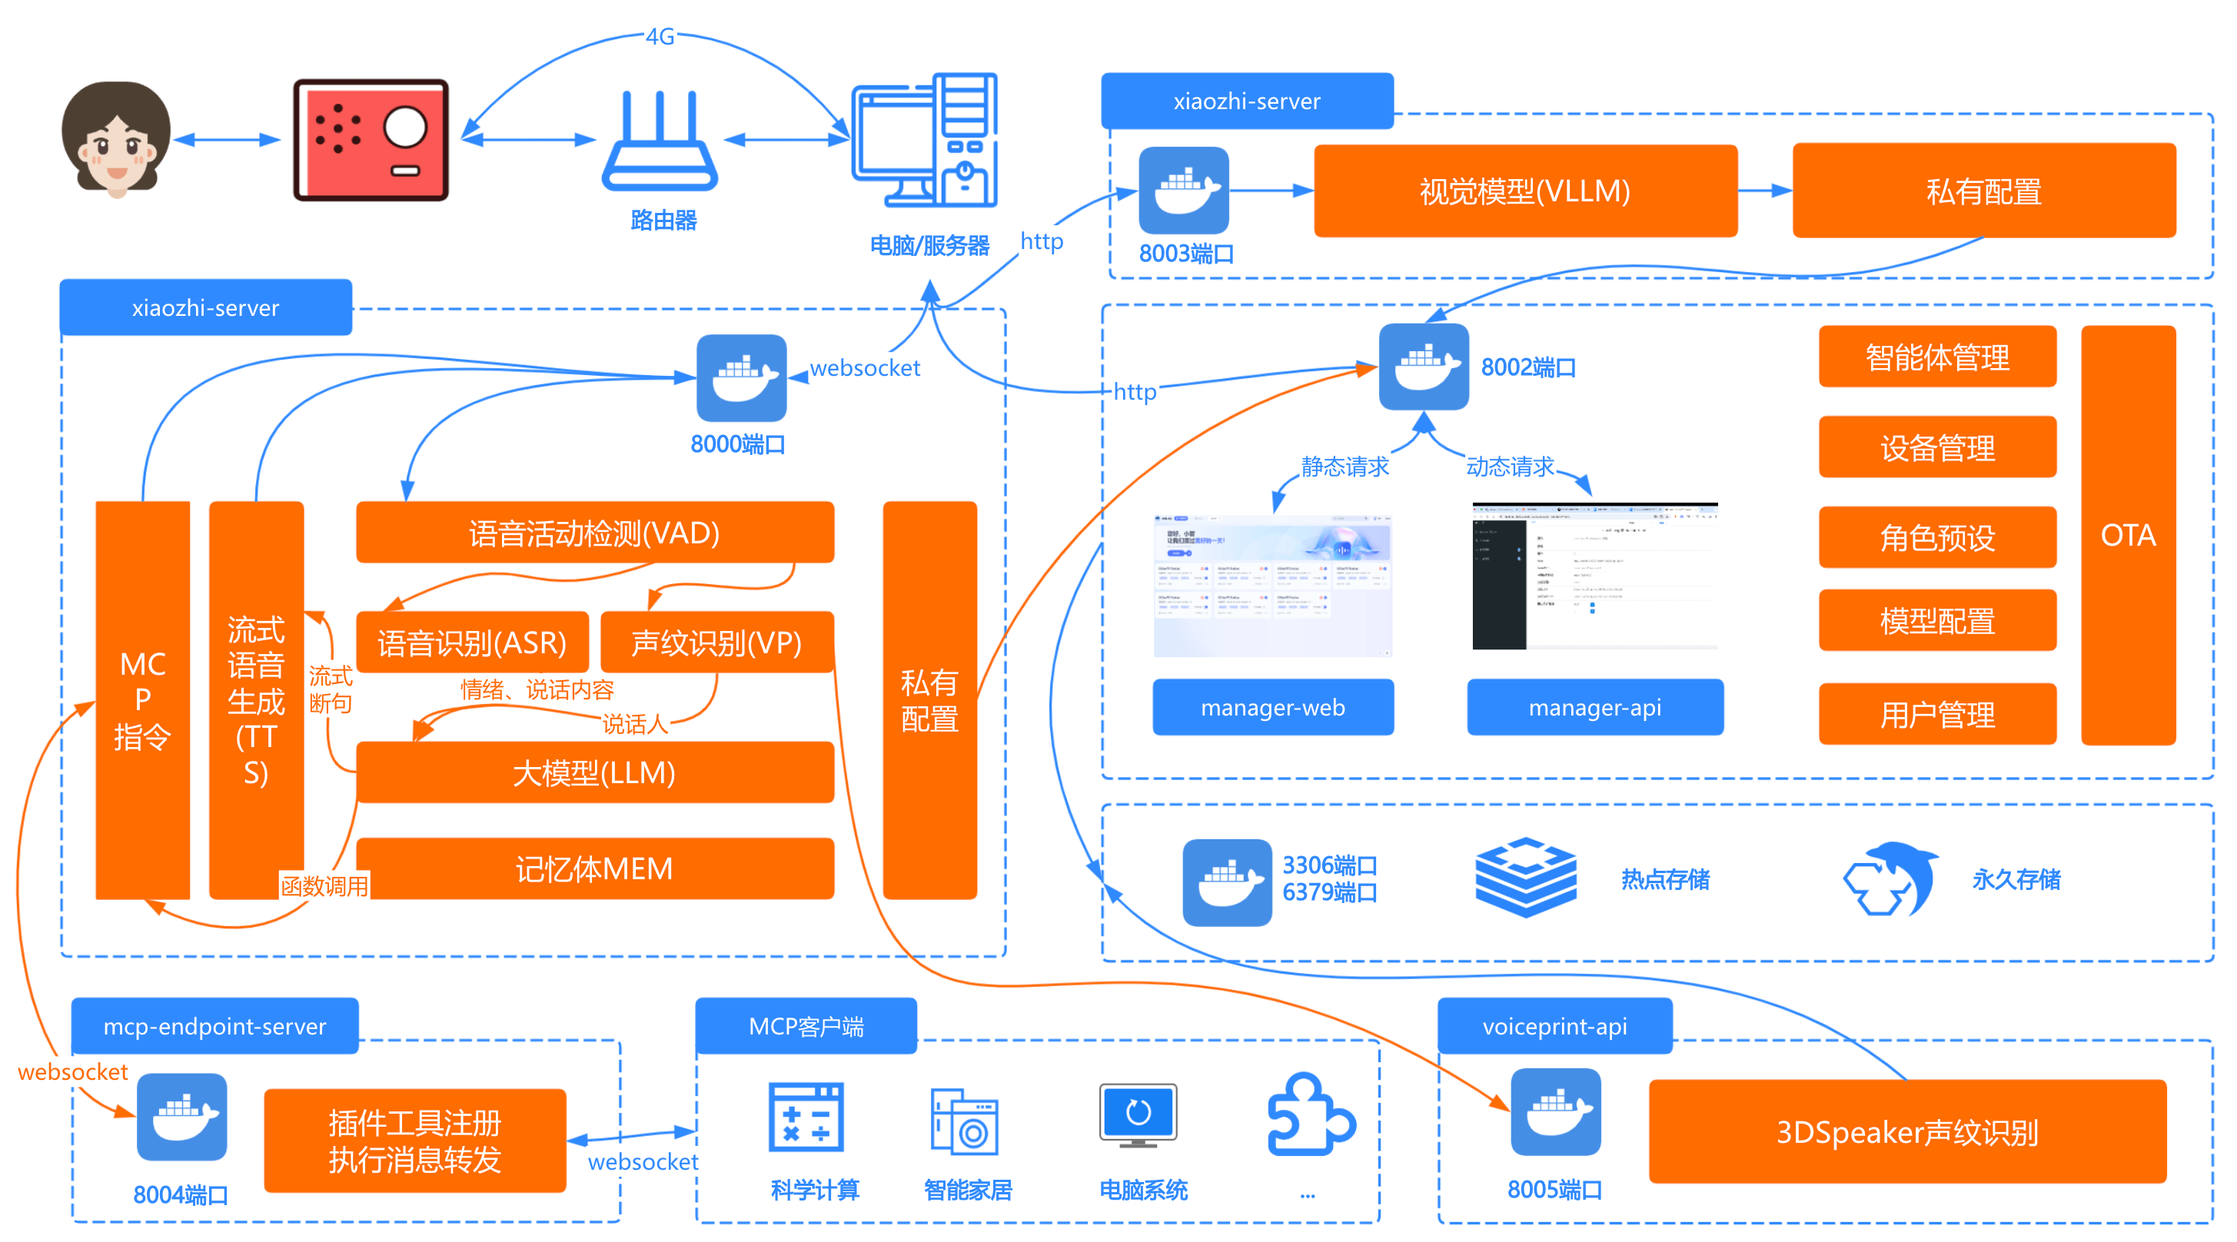
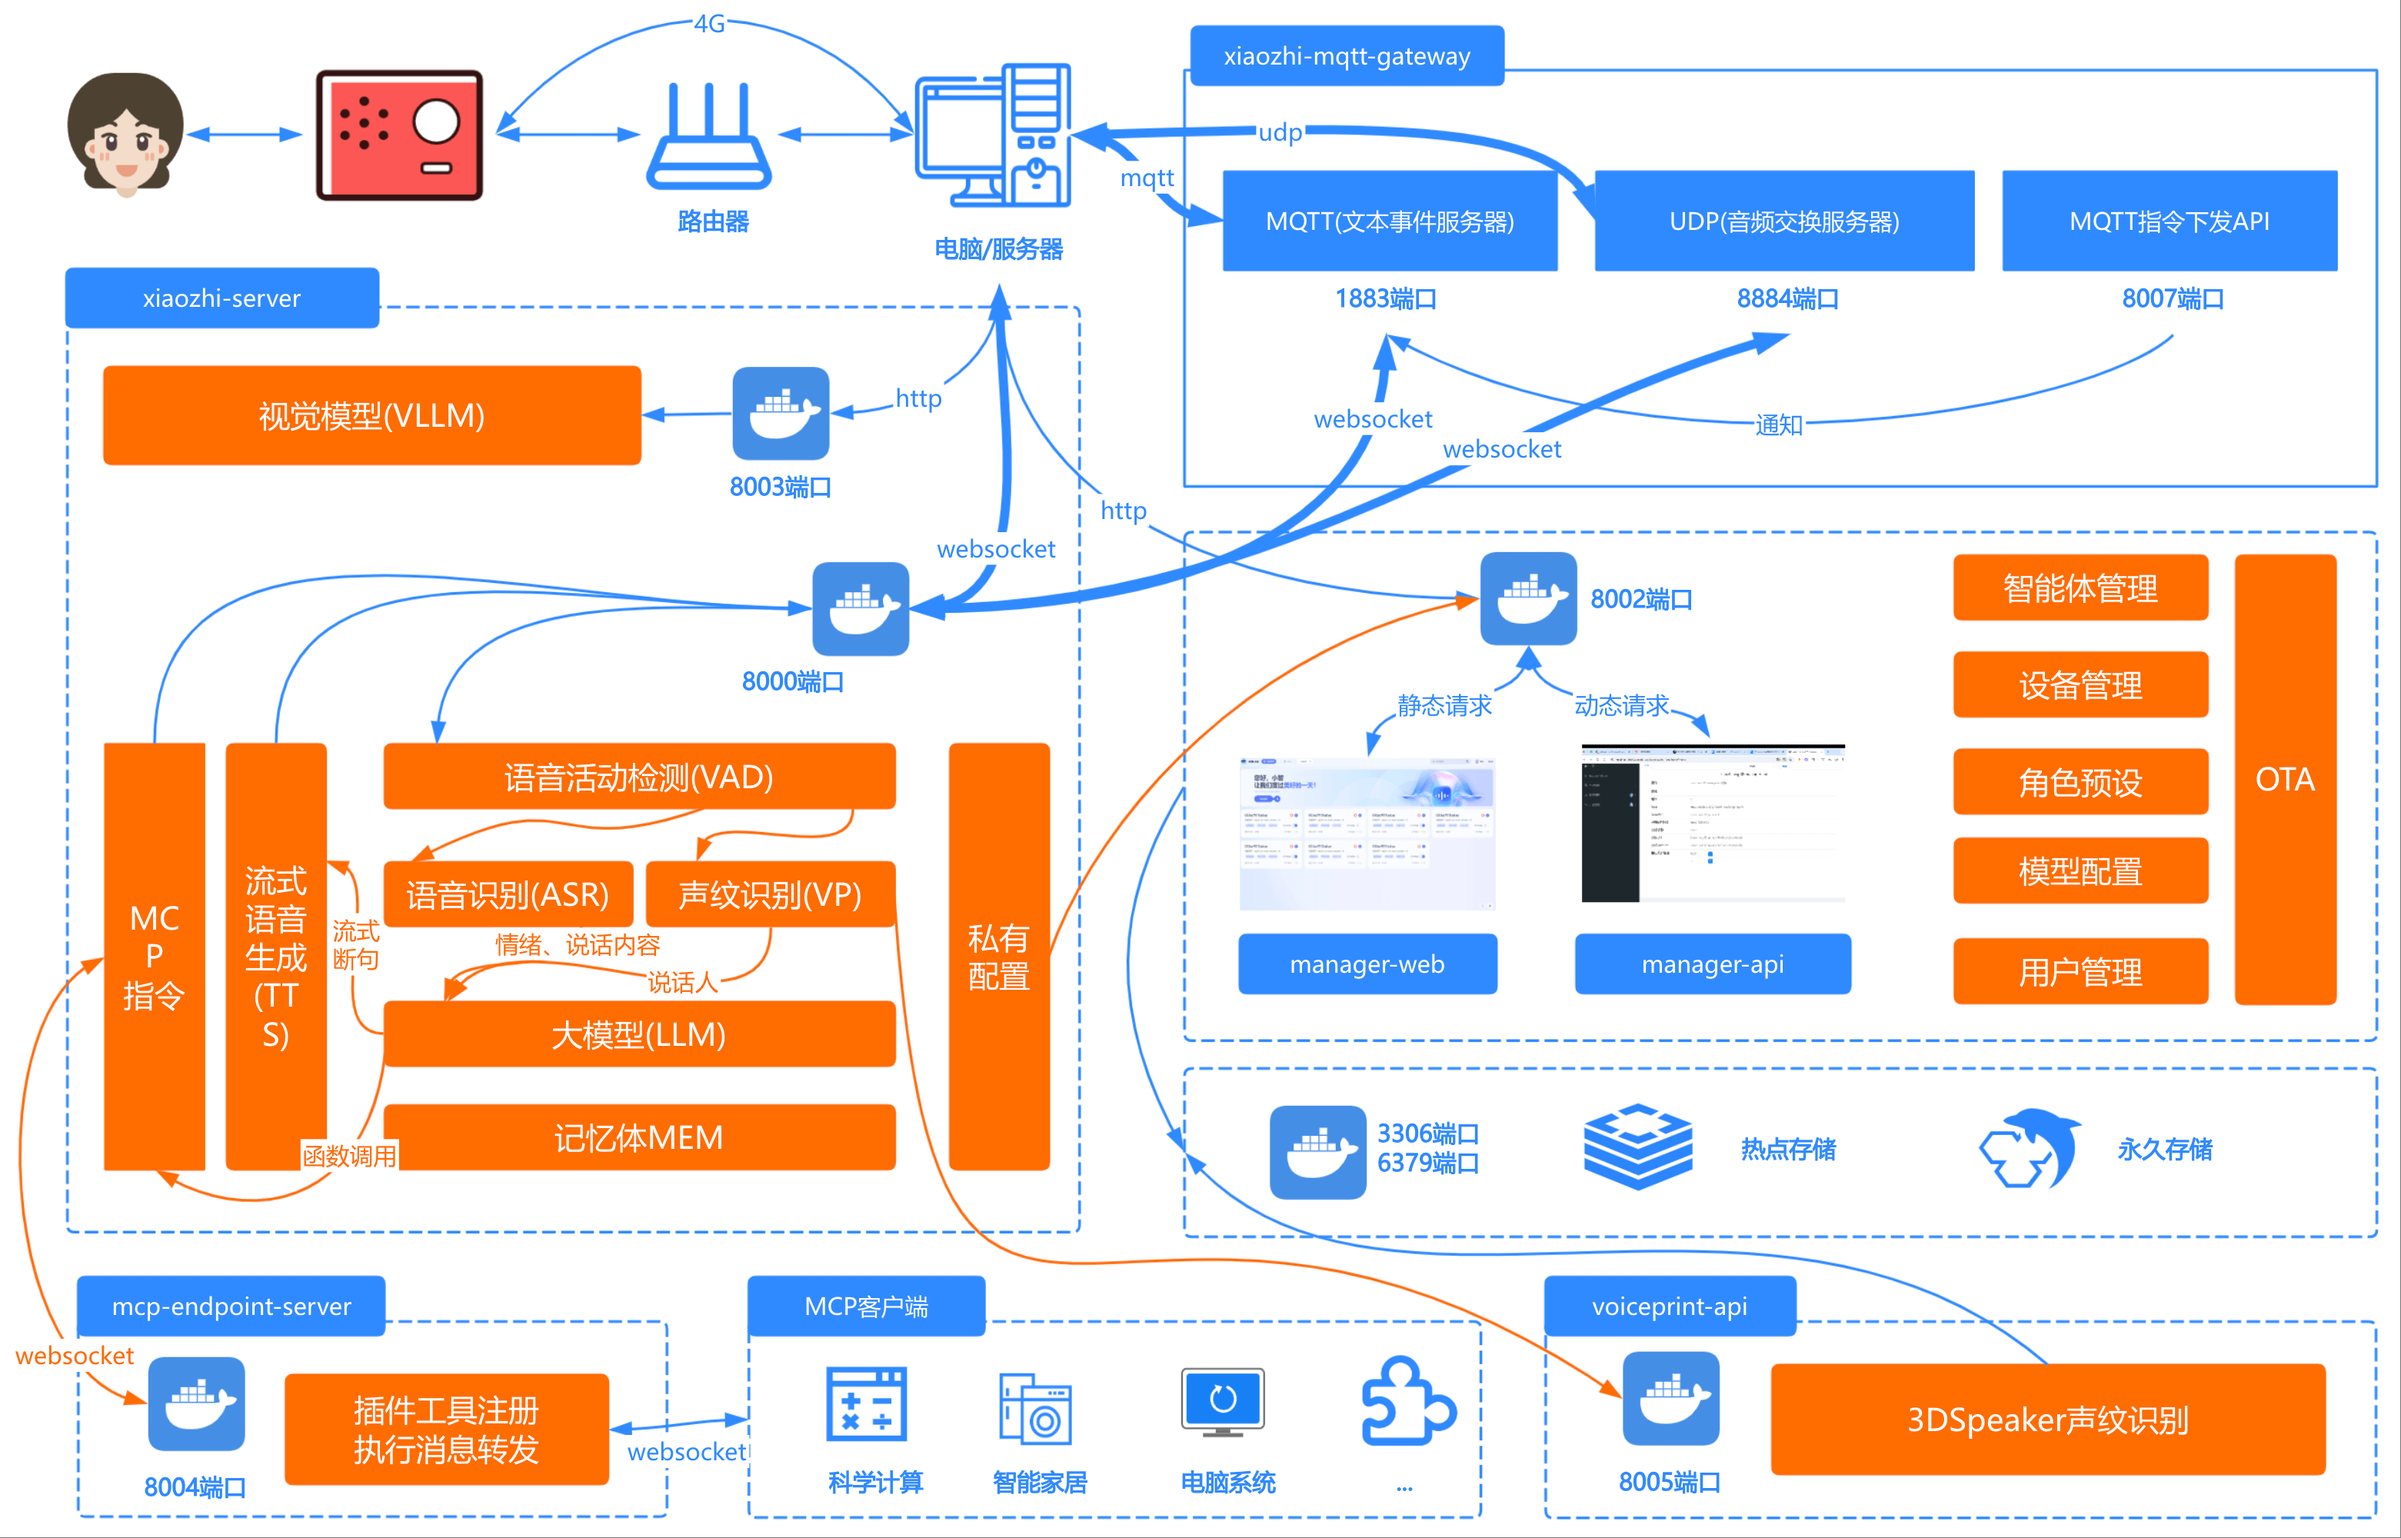
update:架构图增加mqtt

diff --git a/main/xiaozhi-server/config/logger.py b/main/xiaozhi-server/config/logger.py
@@ -5,7 +5,7 @@ from config.config_loader import load_config
 from config.settings import check_config_file
 from datetime import datetime
 
-SERVER_VERSION = "0.8.1"
+SERVER_VERSION = "0.8.2"
 _logger_initialized = False
 
 

diff --git a/README_en.md b/README_en.md
@@ -63,6 +63,13 @@ Want to see the usage effects? Click the videos below 🎥
         </a>
     </td>
     <td>
+        <a href="https://www.bilibili.com/video/BV1zUW5zJEkq" target="_blank">
+         <picture>
+           <img alt="MQTT command issuance" src="docs/images/demo4.png" />
+         </picture>
+        </a>
+    </td>
+    <td>
         <a href="https://www.bilibili.com/video/BV1CDKWemEU6" target="_blank">
          <picture>
            <img alt="Custom voice timbre" src="docs/images/demo2.png" />
@@ -80,13 +87,6 @@ Want to see the usage effects? Click the videos below 🎥
         <a href="https://www.bilibili.com/video/BV1pNXWYGEx1" target="_blank">
          <picture>
            <img alt="Controlling home appliances" src="docs/images/demo5.png" />
-         </picture>
-        </a>
-    </td>
-    <td>
-        <a href="https://www.bilibili.com/video/BV1kgA2eYEQ9" target="_blank">
-         <picture>
-           <img alt="Lowest cost configuration" src="docs/images/demo4.png" />
          </picture>
         </a>
     </td>
@@ -237,15 +237,16 @@ This project provides the following testing tools to help you verify the system 
 ![请参考-全模块安装架构图](docs/images/deploy2.png)
 | Feature Module | Description |
 |:---:|:---|
-| Core Architecture | Based on WebSocket and HTTP servers, provides complete console management and authentication system |
+| Core Architecture | Based on [MQTT+UDP gateway](https://github.com/xinnan-tech/xiaozhi-esp32-server/blob/main/docs/mqtt-gateway-integration.md), WebSocket and HTTP servers, provides complete console management and authentication system |
 | Voice Interaction | Supports streaming ASR(speech recognition), streaming TTS(speech synthesis), VAD(voice activity detection), supports multi-language recognition and voice processing |
 | Voiceprint Recognition | Supports multi-user voiceprint registration, management, and recognition, processes in parallel with ASR, real-time speaker identity recognition and passes to LLM for personalized responses |
 | Intelligent Dialogue | Supports multiple LLM(large language models), implements intelligent dialogue |
 | Visual Perception | Supports multiple VLLM(vision large models), implements multimodal interaction |
 | Intent Recognition | Supports LLM intent recognition, Function Call function calling, provides plugin-based intent processing mechanism |
 | Memory System | Supports local short-term memory, mem0ai interface memory, with memory summarization functionality |
+| Command Delivery | Supports MCP command delivery to ESP32 devices via MQTT protocol from Smart Console |
 | Tool Calling | Supports client IOT protocol, client MCP protocol, server MCP protocol, MCP endpoint protocol, custom tool functions |
-| Management Backend | Provides Web management interface, supports user management, system configuration, and device management |
+| Management Backend | Provides Web management interface, supports user management, system configuration and device management; Supports Simplified Chinese, Traditional Chinese and English display |
 | Testing Tools | Provides performance testing tools, vision model testing tools, and audio interaction testing tools |
 | Deployment Support | Supports Docker deployment and local deployment, provides complete configuration file management |
 | Plugin System | Supports functional plugin extensions, custom plugin development, and plugin hot-loading |
@@ -259,7 +260,7 @@ If you are a software developer, here is an [Open Letter to Developers](docs/con
 ---
 
 ## Product Ecosystem 👬
-Xiaozhi is an ecosystem. When using this product, you can also check out other excellent projects in this ecosystem
+Xiaozhi is an ecosystem. When using this product, you can also check out other [excellent projects](https://github.com/78/xiaozhi-esp32?tab=readme-ov-file#%E7%9B%B8%E5%85%B3%E5%BC%80%E6%BA%90%E9%A1%B9%E7%9B%AE) in this ecosystem
 
 | Project Name | Project Address | Project Description |
 |:---------------------|:--------|:--------|
@@ -280,7 +281,7 @@ Xiaozhi is an ecosystem. When using this product, you can also check out other e
 | FastGPT interface calls | FastGPT | - |
 | Coze interface calls | Coze | - |
 
-In fact, any LLM that supports OpenAI interface calls can be integrated and used.
+In fact, any LLM that supports OpenAI interface calls can be integrated and used, including Xinference and HomeAssistant interfaces.
 
 ---
 
@@ -298,7 +299,7 @@ In fact, any VLLM that supports OpenAI interface calls can be integrated and use
 
 | Usage Method | Supported Platforms | Free Platforms |
 |:---:|:---:|:---:|
-| Interface calls | EdgeTTS, Volcano Engine Doubao TTS, Tencent Cloud, Alibaba Cloud TTS, CosyVoiceSiliconflow, TTS302AI, CozeCnTTS, GizwitsTTS, ACGNTTS, OpenAITTS, Lingxi Streaming TTS | Lingxi Streaming TTS, EdgeTTS, CosyVoiceSiliconflow(partial) |
+| Interface calls | EdgeTTS, Volcano Engine Doubao TTS, Tencent Cloud, Alibaba Cloud TTS, AliYun Stream TTS, CosyVoiceSiliconflow, TTS302AI, CozeCnTTS, GizwitsTTS, ACGNTTS, OpenAITTS, Lingxi Streaming TTS, MinimaxTTS | Lingxi Streaming TTS, EdgeTTS, CosyVoiceSiliconflow(partial) |
 | Local services | FishSpeech, GPT_SOVITS_V2, GPT_SOVITS_V3, MinimaxTTS | FishSpeech, GPT_SOVITS_V2, GPT_SOVITS_V3, MinimaxTTS |
 
 ---

diff --git a/README.md b/README.md
@@ -64,6 +64,13 @@ Spearheaded by Professor Siyuan Liu's Team (South China University of Technology
         </a>
     </td>
     <td>
+        <a href="https://www.bilibili.com/video/BV1zUW5zJEkq" target="_blank">
+         <picture>
+           <img alt="MQTT指令下发" src="docs/images/demo4.png" />
+         </picture>
+        </a>
+    </td>
+    <td>
         <a href="https://www.bilibili.com/video/BV1CDKWemEU6" target="_blank">
          <picture>
            <img alt="自定义音色" src="docs/images/demo2.png" />
@@ -81,13 +88,6 @@ Spearheaded by Professor Siyuan Liu's Team (South China University of Technology
         <a href="https://www.bilibili.com/video/BV1pNXWYGEx1" target="_blank">
          <picture>
            <img alt="控制家电开关" src="docs/images/demo5.png" />
-         </picture>
-        </a>
-    </td>
-    <td>
-        <a href="https://www.bilibili.com/video/BV1kgA2eYEQ9" target="_blank">
-         <picture>
-           <img alt="成本最低配置" src="docs/images/demo4.png" />
          </picture>
         </a>
     </td>
@@ -241,7 +241,7 @@ Websocket接口地址: wss://2662r3426b.vicp.fun/xiaozhi/v1/
 ![请参考-全模块安装架构图](docs/images/deploy2.png)
 | 功能模块 | 描述 |
 |:---:|:---|
-| 核心架构 | 基于MQTT+UDP网关、WebSocket、HTTP服务器，提供完整的控制台管理和认证系统 |
+| 核心架构 | 基于[MQTT+UDP网关](https://github.com/xinnan-tech/xiaozhi-esp32-server/blob/main/docs/mqtt-gateway-integration.md)、WebSocket、HTTP服务器，提供完整的控制台管理和认证系统 |
 | 语音交互 | 支持流式ASR(语音识别)、流式TTS(语音合成)、VAD(语音活动检测)，支持多语言识别和语音处理 |
 | 声纹识别 | 支持多用户声纹注册、管理和识别，与ASR并行处理，实时识别说话人身份并传递给LLM进行个性化回应 |
 | 智能对话 | 支持多种LLM(大语言模型)，实现智能对话 |
@@ -249,7 +249,8 @@ Websocket接口地址: wss://2662r3426b.vicp.fun/xiaozhi/v1/
 | 意图识别 | 支持LLM意图识别、Function Call函数调用，提供插件化意图处理机制 |
 | 记忆系统 | 支持本地短期记忆、mem0ai接口记忆，具备记忆总结功能 |
 | 工具调用 | 支持客户端IOT协议、客户MCP协议、服务端MCP协议、MCP接入点协议、自定义工具函数 |
-| 管理后台 | 提供Web管理界面，支持用户管理、系统配置和设备管理 |
+| 指令下发 | 依托MQTT协议，支持从智控台将MCP指令下发到ESP32设备 |
+| 管理后台 | 提供Web管理界面，支持用户管理、系统配置和设备管理；界面支持中文简体、中文繁体、英文显示 |
 | 测试工具 | 提供性能测试工具、视觉模型测试工具和音频交互测试工具 |
 | 部署支持 | 支持Docker部署和本地部署，提供完整的配置文件管理 |
 | 插件系统 | 支持功能插件扩展、自定义插件开发和插件热加载 |
@@ -263,13 +264,7 @@ Websocket接口地址: wss://2662r3426b.vicp.fun/xiaozhi/v1/
 ---
 
 ## 产品生态 👬
-小智是一个生态，当你使用这个产品时，也可以看看其他在这个生态圈的优秀项目
-
-| 项目名称  | 项目地址 | 项目描述 |
-|:---------------------|:--------|:--------|
-| 小智安卓客户端  | [xiaozhi-android-client](https://github.com/TOM88812/xiaozhi-android-client) | 一个基于xiaozhi-server的Android、IOS语音对话应用,支持实时语音交互和文字对话。<br/>现在是flutter版本，打通IOS、Android端。 |
-| 小智电脑客户端  | [py-xiaozhi](https://github.com/Huang-junsen/py-xiaozhi) | 该项目提供了一个基于 Python 实现的小白 AI 客户端，使得在不具备实体硬件条件的情况下，<br/>依然能够体过代码体验小智 AI 的功能。 |
-| 小智Java服务端  | [xiaozhi-esp32-server-java](https://github.com/joey-zhou/xiaozhi-esp32-server-java) | 小智开源后端服务 Java 版本是一个基于 Java 的开源项目。<br/>它包括前后端的服务，旨在为用户提供一个完整的后端服务解决方案。 |
+小智是一个生态，当你使用这个产品时，也可以看看其他在这个生态圈的[优秀项目](https://github.com/78/xiaozhi-esp32?tab=readme-ov-file#%E7%9B%B8%E5%85%B3%E5%BC%80%E6%BA%90%E9%A1%B9%E7%9B%AE)
 
 ---
 
